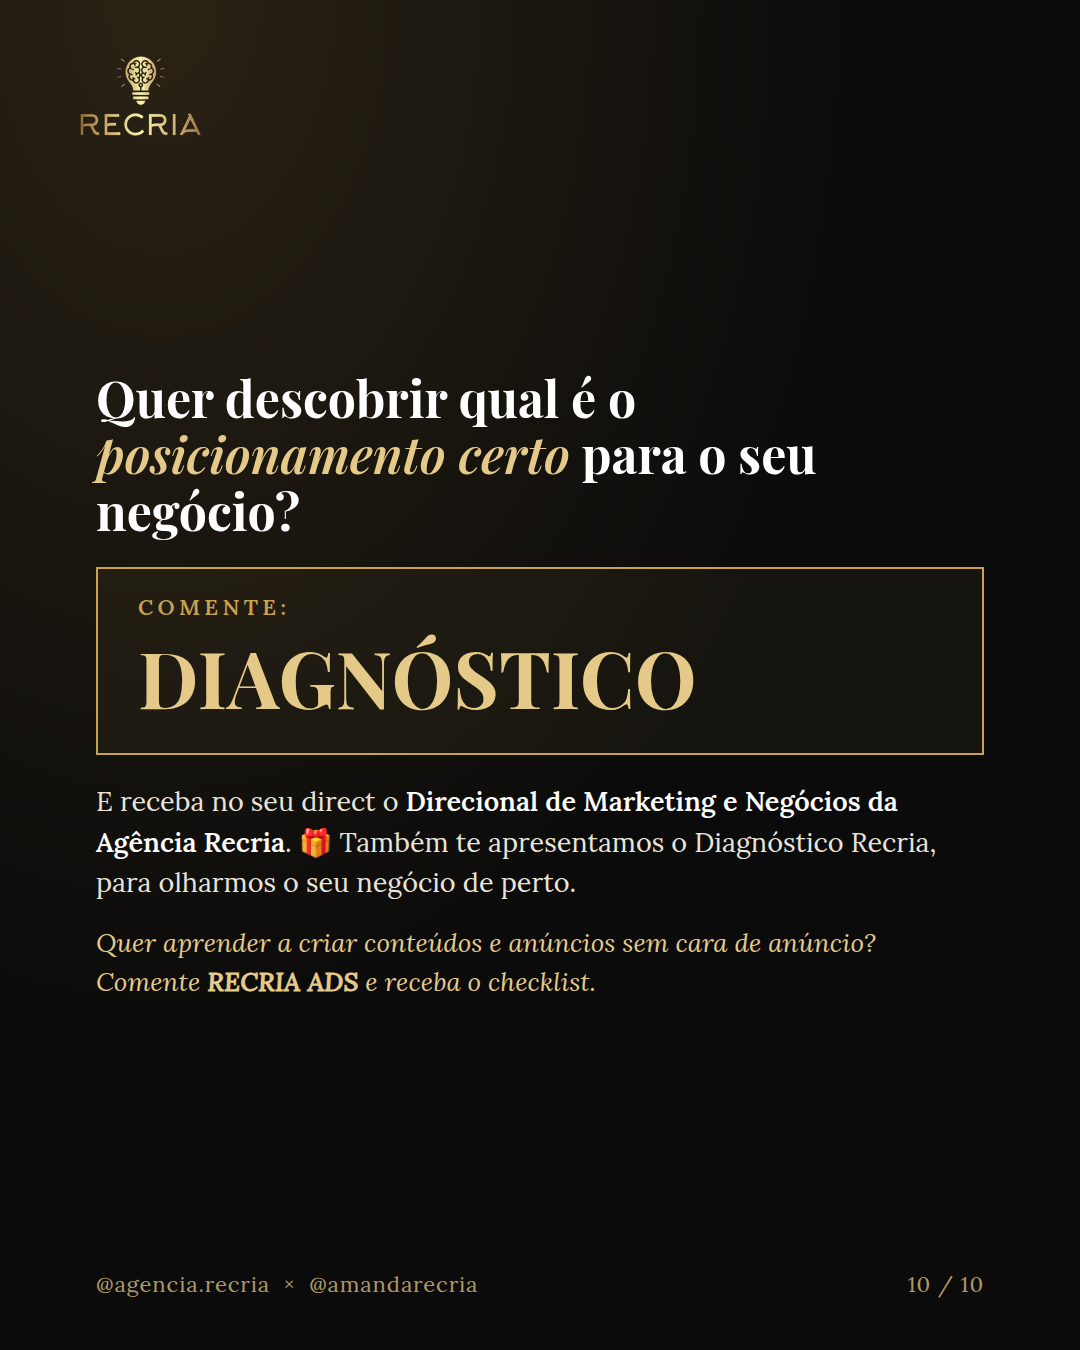
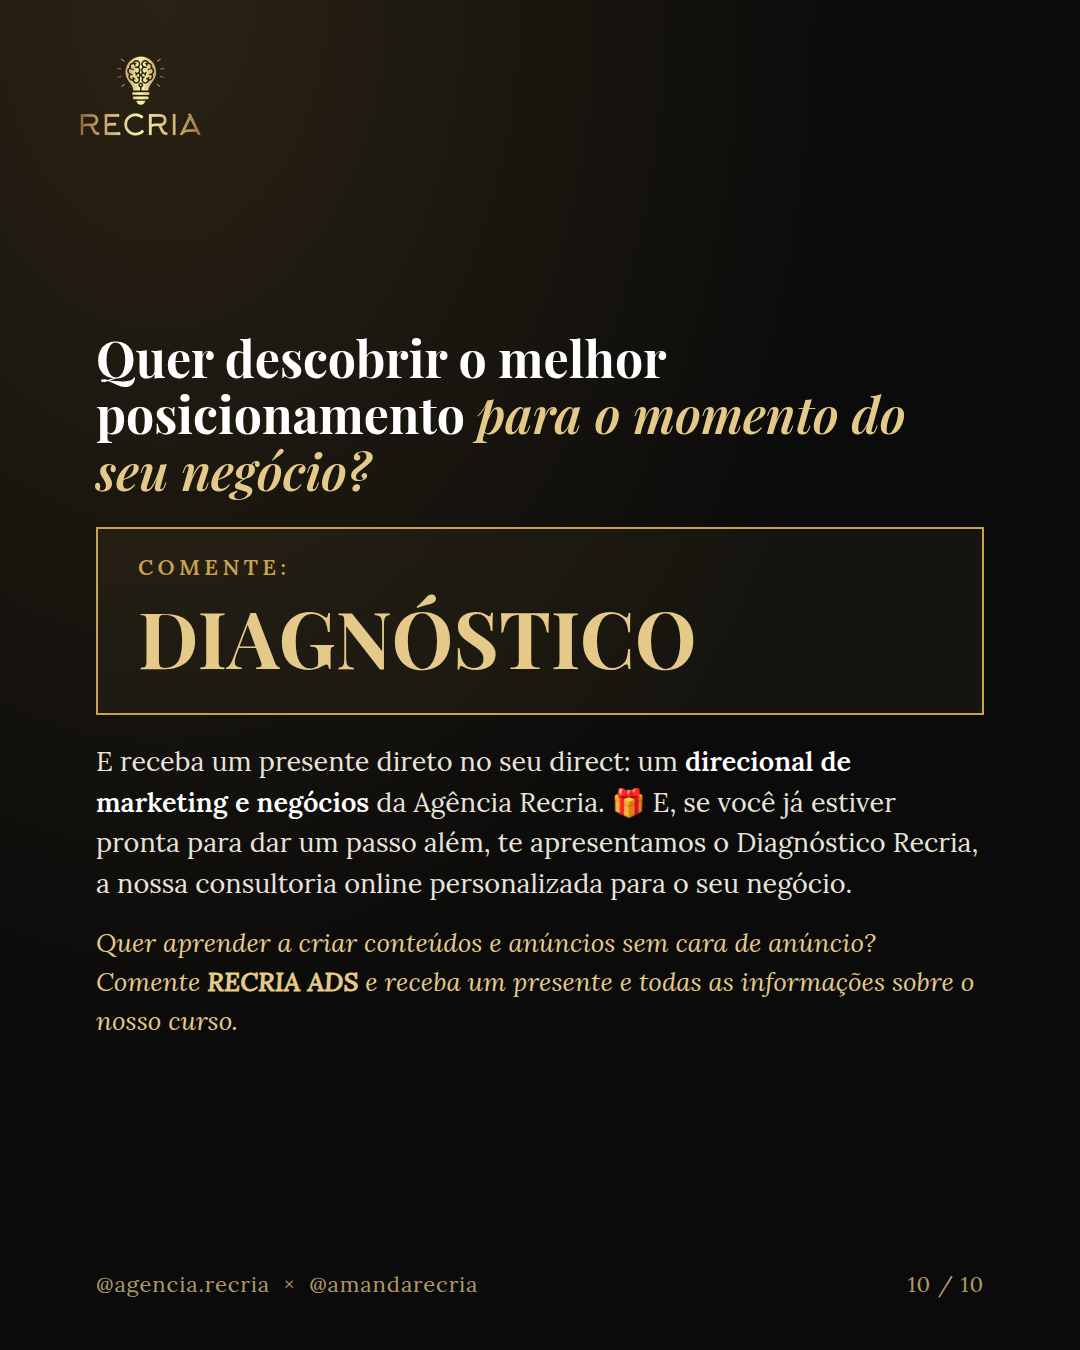
Carrossel 28/10: novo texto do CTA (card 10)
Claude-Session: https://claude.ai/code/session_01RDM8d5cVD9w4uwiMSyLkgt

diff --git a/agencia-recria/social-media/2026-10-28_carrossel-boticario/build_cards.py b/agencia-recria/social-media/2026-10-28_carrossel-boticario/build_cards.py
@@ -138,10 +138,10 @@ cards.append(page('light', '''
 <div class="next">Posicionamento não é tamanho. É coerência e criatividade.</div>''', 9))
 
 cards.append(page('dark', '''
-<h1 style="font-size:50px;margin-bottom:22px">Quer descobrir qual é o <em class="g">posicionamento certo</em> para o seu negócio?</h1>
+<h1 style="font-size:50px;margin-bottom:22px">Quer descobrir o melhor posicionamento <em class="g">para o momento do seu negócio?</em></h1>
 <div class="box"><small>COMENTE:</small><strong>DIAGNÓSTICO</strong></div>
-<p style="font-size:27px">E receba no seu direct o <b>Direcional de Marketing e Negócios da Agência Recria</b>. 🎁 Também te apresentamos o Diagnóstico Recria, para olharmos o seu negócio de perto.</p>
-<p style="font-size:26px;font-style:italic;color:var(--gold2);margin-bottom:0">Quer aprender a criar conteúdos e anúncios sem cara de anúncio? Comente <b style="color:var(--gold2)">RECRIA ADS</b> e receba o checklist.</p>''', 10))
+<p style="font-size:27px">E receba um presente direto no seu direct: um <b>direcional de marketing e negócios</b> da Agência Recria. 🎁 E, se você já estiver pronta para dar um passo além, te apresentamos o Diagnóstico Recria, a nossa consultoria online personalizada para o seu negócio.</p>
+<p style="font-size:26px;font-style:italic;color:var(--gold2);margin-bottom:0">Quer aprender a criar conteúdos e anúncios sem cara de anúncio? Comente <b style="color:var(--gold2)">RECRIA ADS</b> e receba um presente e todas as informações sobre o nosso curso.</p>''', 10))
 
 out = D / 'out'; out.mkdir(exist_ok=True)
 with sync_playwright() as p:
